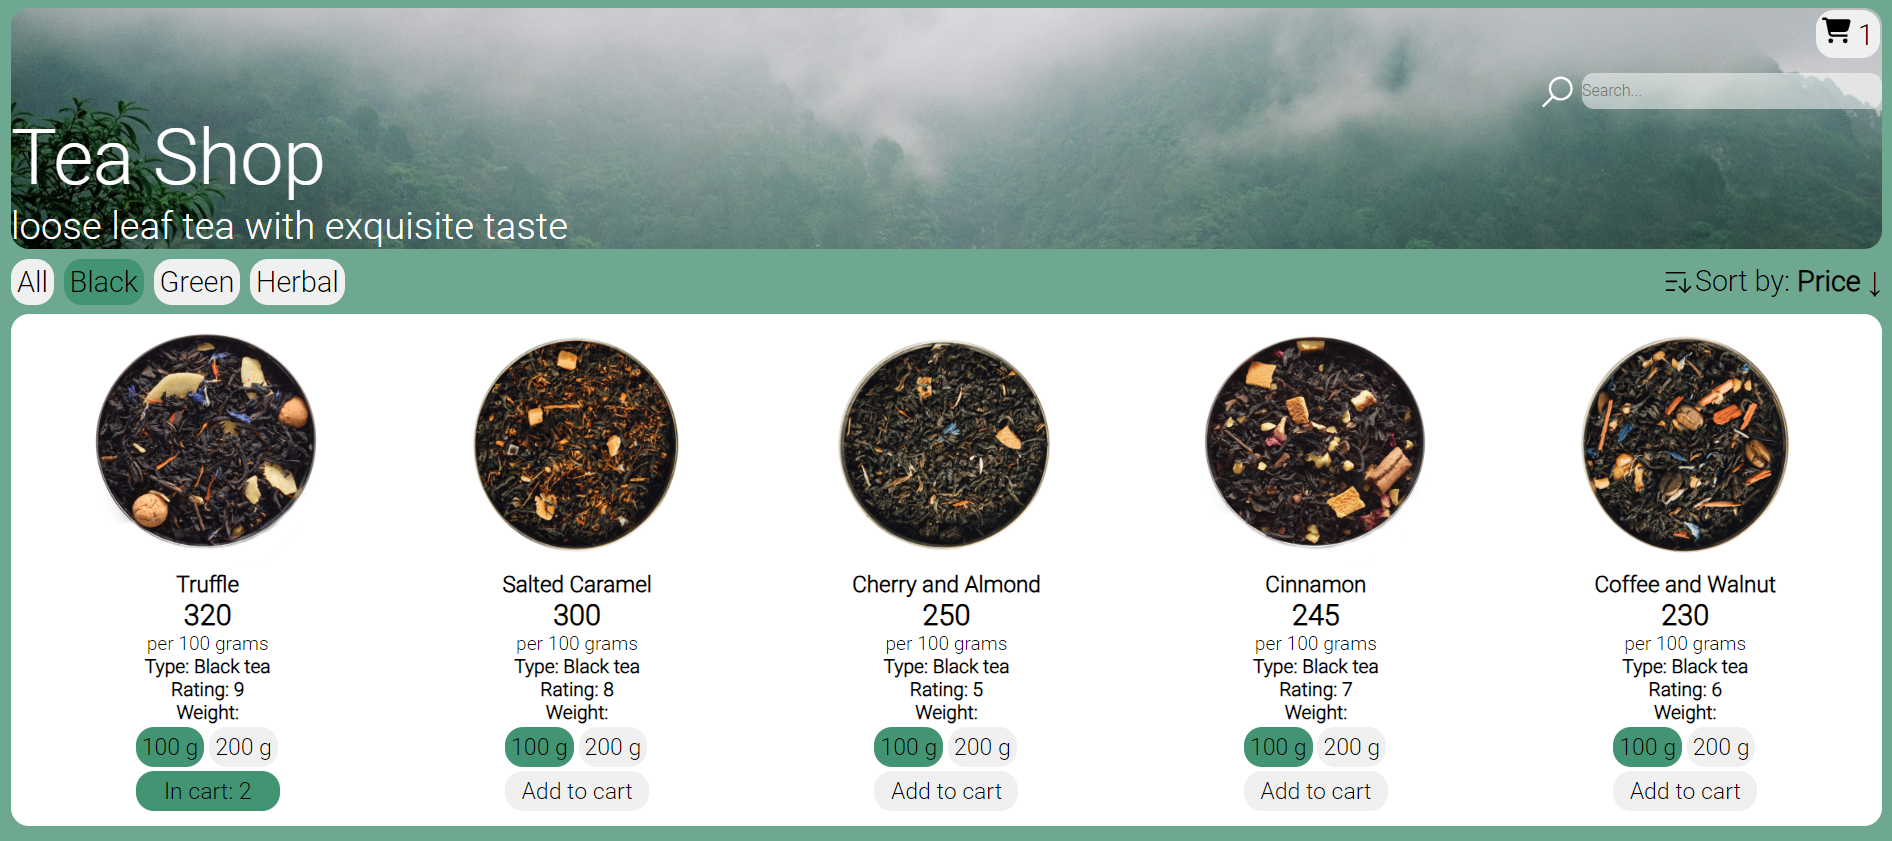
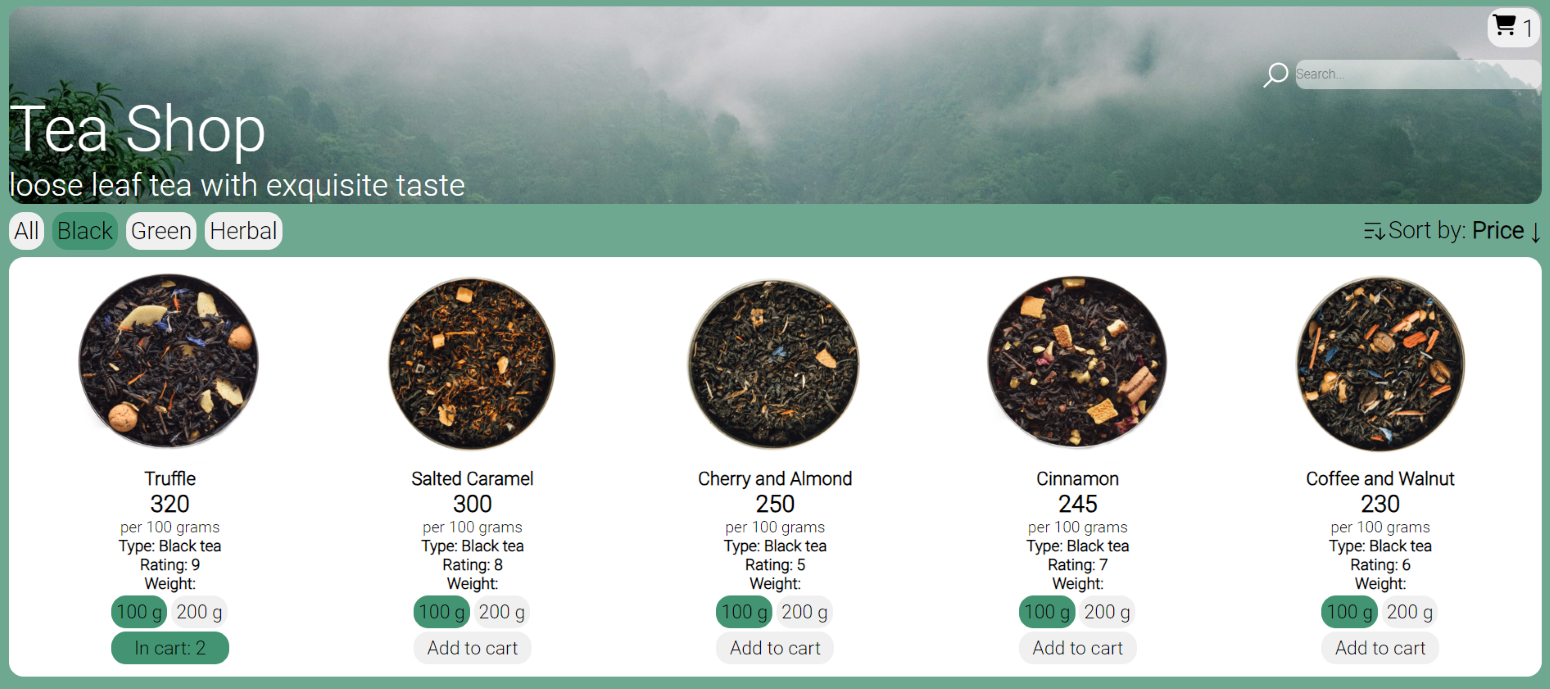
update readme.md

diff --git a/README.md b/README.md
@@ -10,7 +10,7 @@ Link: https://teaonlinestore.netlify.app/
 
 ## Preview
 
-<img src="./src/assets/teashopreview.PNG" alt="preview" width="1610" height="400">
+<img src="./src/assets/teashopreview.PNG" alt="preview" width="1550" height="400">
 
 ## How to start project
 
